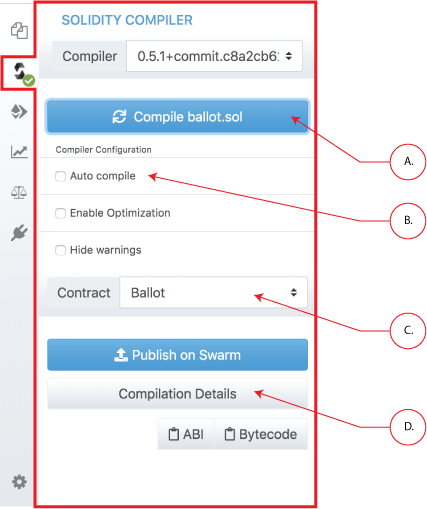
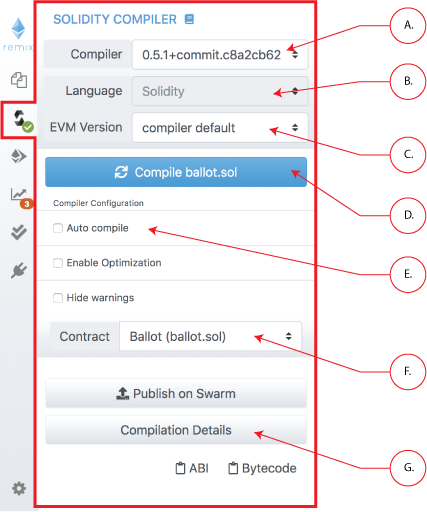
add doc for Yul

diff --git a/docs/compile.md b/docs/compile.md
@@ -3,16 +3,22 @@ Compiler (Solidity)
 
 Clicking the Solidity icon in the icon panel brings you to the Solidty Compiler.
 
-Compiling is triggered when you click the compile button ( **A. in image below**). If you want the file to be compiled each time the file is saved or when another file is selected - check the auto compile checkbox ( **B. in image below**).  
+Compiling is triggered when you click the compile button ( **D. in image below**). If you want the file to be compiled each time the file is saved or when another file is selected - check the auto compile checkbox ( **E. in image below**).
+
+Since the Solidity version `0.5.7`, it is possible to compile `Yul` files. Please read the (([solidity documentation about Yul]https://solidity.readthedocs.io/en/latest/yul.html)) which contain some code examples.
+You can use the language dropdown ( **B. in image below**) to switch the language. **This dropdown list is only available for versions greater than or equal to `0.5.7`.**
+
+The fork selection dropdown list ( **C. in image below**) allows to compile code against a specific ethereum hard fork. 
+The `compiler default` corresponds to the default hard fork used by a specific version. Please go to "Compilation Details" ( **G. in image below**) in the settings of `Metadata` section to see the harfork name used for the current compilation.
 
 If the contract has a lot of dependencies it can take a while to compile - so you use autocompilation at your discretion.
 
 ![](images/a-sol-compiler.png)
 
 After each compilation, a list is updated with all the newly compiled
-contracts.  The contract compiled can be selected with the Contract pulldown menu ( **C. in image below**).  Multiple contracts are compiled when one contract imports other contracts.  Selecting a contract will show information about that one.
+contracts.  The contract compiled can be selected with the Contract pulldown menu ( **F. in image below**).  Multiple contracts are compiled when one contract imports other contracts.  Selecting a contract will show information about that one.
 
-When the "Compilation Details" button is clicked ( **D. in image below**), a modal opens displaying detailed information about the current selected contract.
+When the "Compilation Details" button is clicked ( **G. in image below**), a modal opens displaying detailed information about the current selected contract.
 
 From this tab, you can also publish your contract to Swarm (only non
 abstract contracts can be published).
